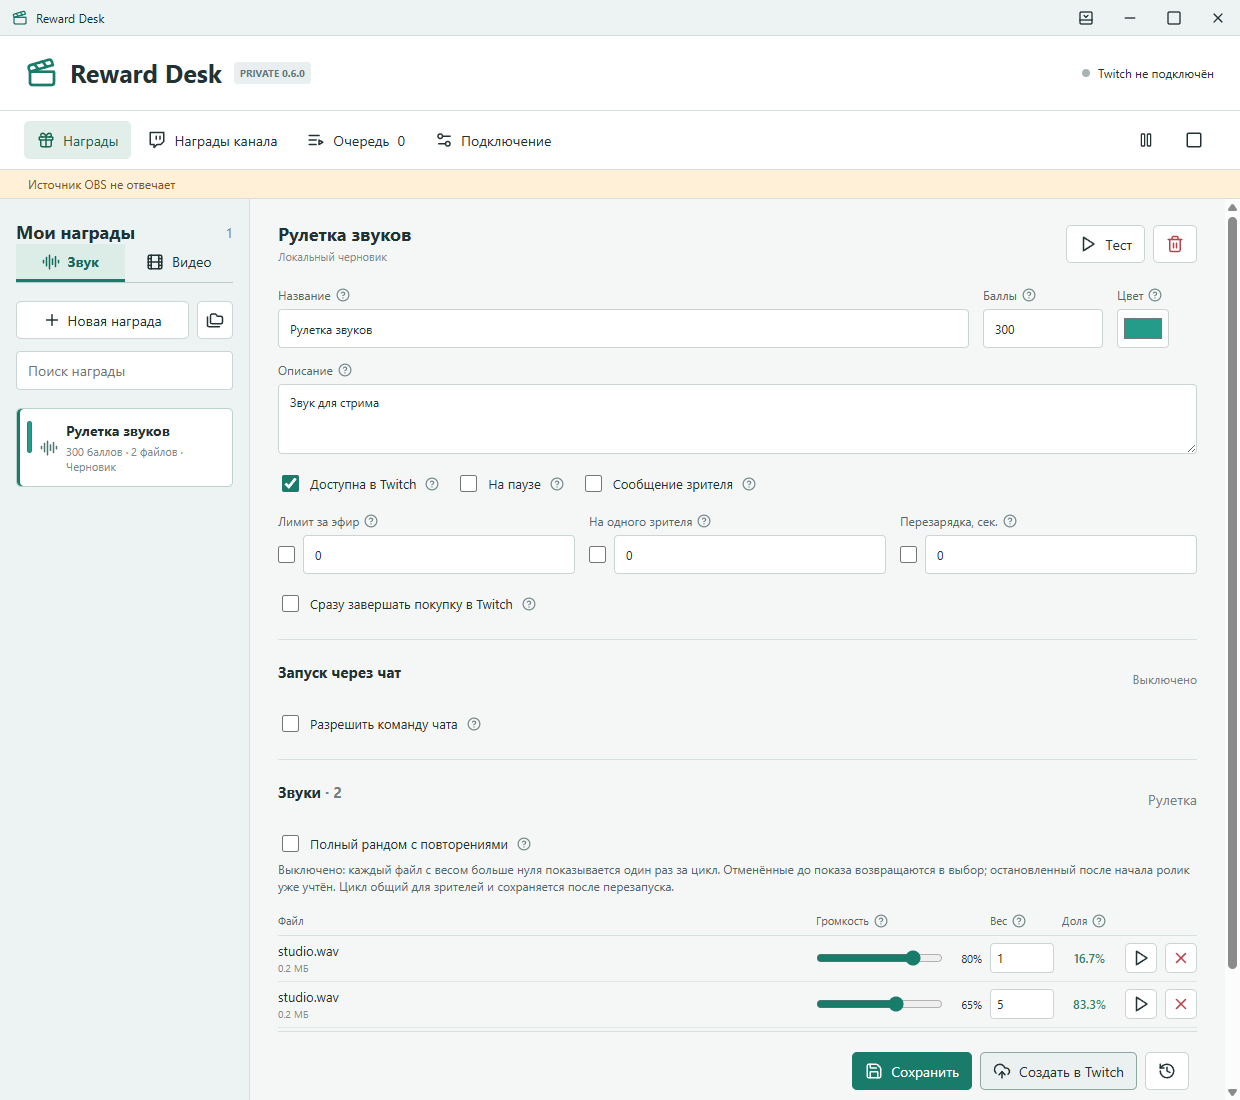
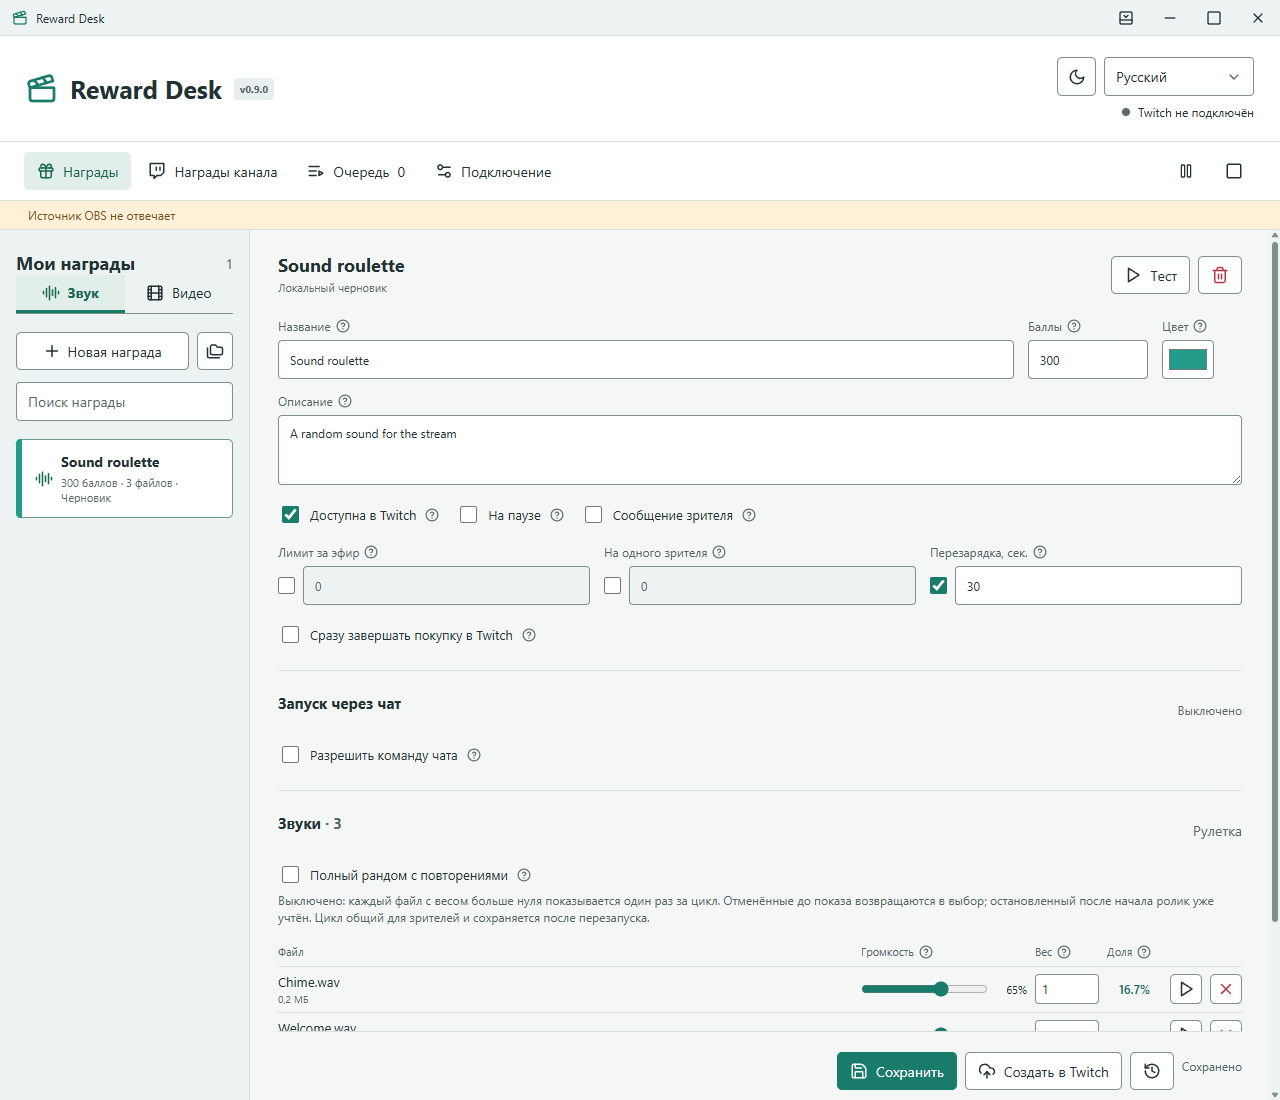
Release Reward Desk 0.9.0 publicly with isolated app and OBS update channels

diff --git a/ui/locales-shell.js b/ui/locales-shell.js
@@ -239,9 +239,9 @@
       "Підключає локальний OBS WebSocket. Якщо активне джерело з точним URL Reward Desk не відповідає 20 секунд, оновлює лише його. Не перериває поточну нагороду, не запускає трансляцію та не змінює сцени. Не частіше ніж раз на хвилину, до трьох спроб за п'ять хвилин. Пароль зберігається зашифрованим на цьому ПК. Перерваний показ потребує рішення в черзі; нагороди, що очікують, не втрачаються.",
     ],
     [
-      "Проверяет доступный стабильный выпуск на GitHub при запуске. Установка начинается только после подтверждения, с резервной копией профиля. Приватные выпуски без отдельного доступа недоступны; токен GitHub в приложение не встроен.",
-      "Checks GitHub for an available stable release on startup. Installation starts only after confirmation and includes a profile backup. Private releases require separate access; no GitHub token is embedded in the app.",
-      "Перевіряє доступний стабільний випуск на GitHub під час запуску. Встановлення починається лише після підтвердження, зі створенням резервної копії профілю. Приватні випуски без окремого доступу недоступні; токен GitHub не вбудовано в застосунок.",
+      "Проверяет публичный стабильный выпуск на GitHub при запуске. Установка начинается только после подтверждения, с резервной копией профиля. Вход в GitHub не требуется.",
+      "Checks GitHub for a public stable release on startup. Installation starts only after confirmation and includes a profile backup. No GitHub login is required.",
+      "Перевіряє публічний стабільний випуск на GitHub під час запуску. Встановлення починається лише після підтвердження, зі створенням резервної копії профілю. Вхід у GitHub не потрібен.",
     ],
     [
       "Название награды, которое зрители видят в Twitch. До 45 символов.",

diff --git a/ui/help.js b/ui/help.js
@@ -3,7 +3,7 @@
     obsRecovery:
       "Подключает локальный OBS WebSocket. Если активный источник с точным URL Reward Desk не отвечает 20 секунд, обновляет только его. Не прерывает текущую награду, не запускает эфир и не меняет сцены. Не чаще раза в минуту, до трёх попыток за пять минут. Пароль хранится зашифрованным на этом ПК. Прерванный показ требует решения в очереди; ожидающие награды не теряются.",
     autoUpdates:
-      "Проверяет доступный стабильный выпуск на GitHub при запуске. Установка начинается только после подтверждения, с резервной копией профиля. Приватные выпуски без отдельного доступа недоступны; токен GitHub в приложение не встроен.",
+      "Проверяет публичный стабильный выпуск на GitHub при запуске. Установка начинается только после подтверждения, с резервной копией профиля. Вход в GitHub не требуется.",
     title: "Название награды, которое зрители видят в Twitch. До 45 символов.",
     prompt:
       "Описание награды в Twitch: например, что произойдёт после покупки. До 200 символов.",

diff --git a/ui/app.js b/ui/app.js
@@ -747,7 +747,7 @@ function captionMarkup() {
   </div>${textPlacementMarkup("duration", d, !d.enabled)}</div></section>`;
 }
 function renderStatus() {
-  $(".version").textContent = tr("PRIVATE {version}", { version: state.version });
+  $(".version").textContent = `v${state.version}`;
   $("#connection-text").textContent = state.auth.user
     ? `${state.auth.user.login} · ${tr(state.twitch)}`
     : tr("Twitch не подключён");

diff --git a/ui/index.html b/ui/index.html
@@ -54,7 +54,7 @@
       <div class="brand">
         <i data-lucide="clapperboard"></i>
         <h1>Reward Desk</h1>
-        <span class="version">PRIVATE 0.1</span>
+        <span class="version"></span>
       </div>
       <div class="header-tools">
         <div class="appearance-controls">

diff --git a/obs-plugin/dock.cpp b/obs-plugin/dock.cpp
@@ -158,7 +158,7 @@ void RewardDock::accept(const QJsonObject &value) {
     update->setText(status == "available" ? text("Доступно обновление плагина. Закройте OBS и запустите его установщик.", "Доступне оновлення плагіна. Закрийте OBS і запустіть інсталятор.", "Plugin update available. Close OBS and run its installer.") :
         status == "checking" ? text("Проверяем обновления…", "Перевіряємо оновлення…", "Checking updates…") :
         status == "current" ? text("Установлена актуальная версия", "Установлено актуальну версію", "You are up to date") :
-        status == "unavailable" ? text("Приватные выпуски: требуется доступ GitHub", "Приватні випуски: потрібен доступ GitHub", "Private releases: GitHub access required") :
+        status == "unavailable" ? text("Публичный выпуск пока недоступен", "Публічний випуск поки недоступний", "Public release is not available yet") :
         status == "error" ? text("Не удалось проверить обновления", "Не вдалося перевірити оновлення", "Could not check for updates") :
         text("Проверка обновлений ещё не выполнена", "Перевірку оновлень ще не виконано", "Updates have not been checked"));
     QStringList lines;

diff --git a/CHANGELOG.md b/CHANGELOG.md
@@ -1,5 +1,14 @@
 # Изменения
 
+## 0.9.0 - 2026-10-19 (Public App and OBS)
+
+- Первый публичный выпуск Reward Desk и Reward Desk OBS: отдельное приложение Windows или панель OBS с локальным веб-редактором. Профили, вход Twitch и источники независимы.
+- Звуковые и видео-награды, рулетки без повторов, веса и громкость отдельных файлов, команды чата, группы и цвета наград.
+- Настройка размещения видео, рамки, наклона, индивидуальных подписей и длительности. Постоянная ссылка OBS, очередь и восстановление связи.
+- Светлая и тёмная темы, русский, украинский и английский интерфейс. Локальные черновики, история сохранений, резервные копии и защита от случайной подмены профиля.
+- Проверка обновлений отдельно выбирает выпуски приложения `v*` и плагина `obs-v*`, независимо от отметки GitHub Latest. Добавлена проверка изоляции каналов обновлений.
+- Открыты исходники и история разработки; опубликованы установщики с SHA-256, инструкции и скриншоты. Личные профили и медиа в поставку не входят.
+
 ## 0.8.2 - 2026-10-19 (Private App and OBS)
 
 - Перенаправление профиля Windows теперь объясняется спокойным информационным окном вместо системного окна ошибки. Для приложения и OBS-плагина указаны разные шаги обычного запуска.

diff --git a/docs/obs-plugin.md b/docs/obs-plugin.md
@@ -1,6 +1,6 @@
 # Reward Desk OBS
 
-Private Windows x64 preview. The OBS plugin and standalone app are alternative products, not two launchers for one database.
+Public Windows x64 release for OBS Studio 32+. The OBS plugin and standalone app are alternative products, not two launchers for one database.
 
 ![Native OBS dock](screenshots/obs-dock.png)
 
@@ -22,7 +22,7 @@ The native Qt dock launches its own bundled runtime without a visible Electron w
 
 The runtime exits gracefully when its originating OBS process exits. An interrupted started job remains in attention state on next start; it is never replayed silently. Closing the editor tab does not stop playback. Existing source heartbeat/reconnect and optional source-only OBS recovery remain in place.
 
-Profile recovery uses a native Windows folder picker and confirmation; HTTP requests cannot supply a recovery path. Opening the data folder only opens the fixed plugin profile. Recovery accepts missing unpublished local rewards, not a transfer of existing Twitch rewards or credentials. The private updater does not embed GitHub credentials. Install plugin updates using its separate installer after closing OBS; never use the app installer for the plugin.
+Profile recovery uses a native Windows folder picker and confirmation; HTTP requests cannot supply a recovery path. Opening the data folder only opens the fixed plugin profile. Recovery accepts missing unpublished local rewards, not a transfer of existing Twitch rewards or credentials. Public updates do not require GitHub credentials. Install plugin updates using its separate installer after closing OBS; never use the app installer for the plugin.
 
 ## Build
 
